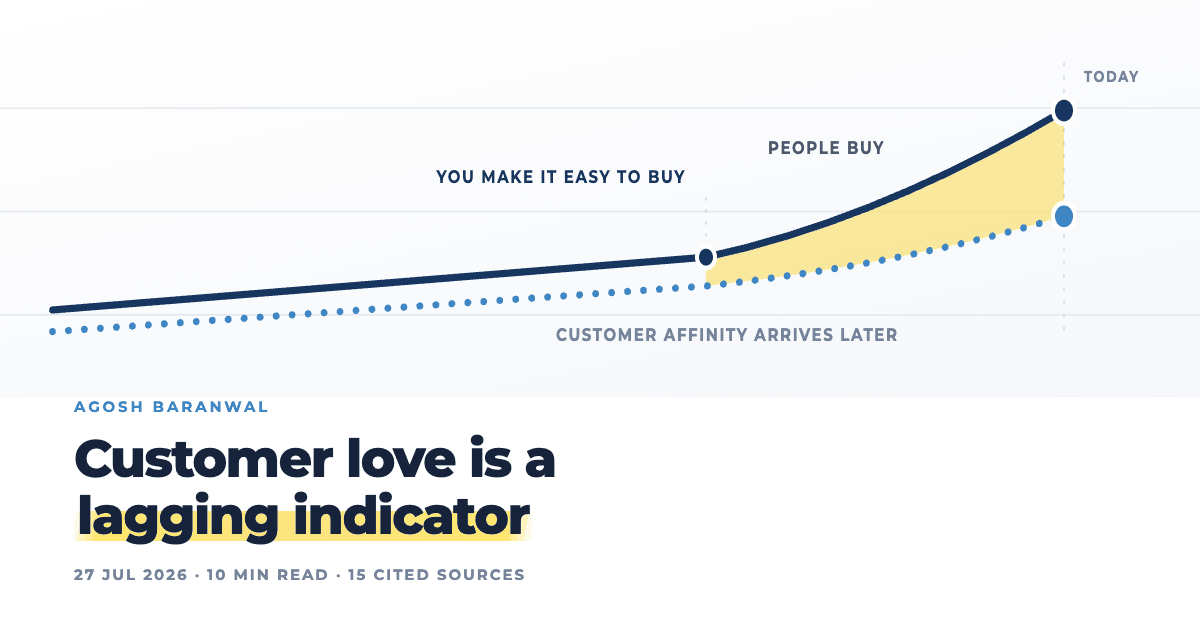
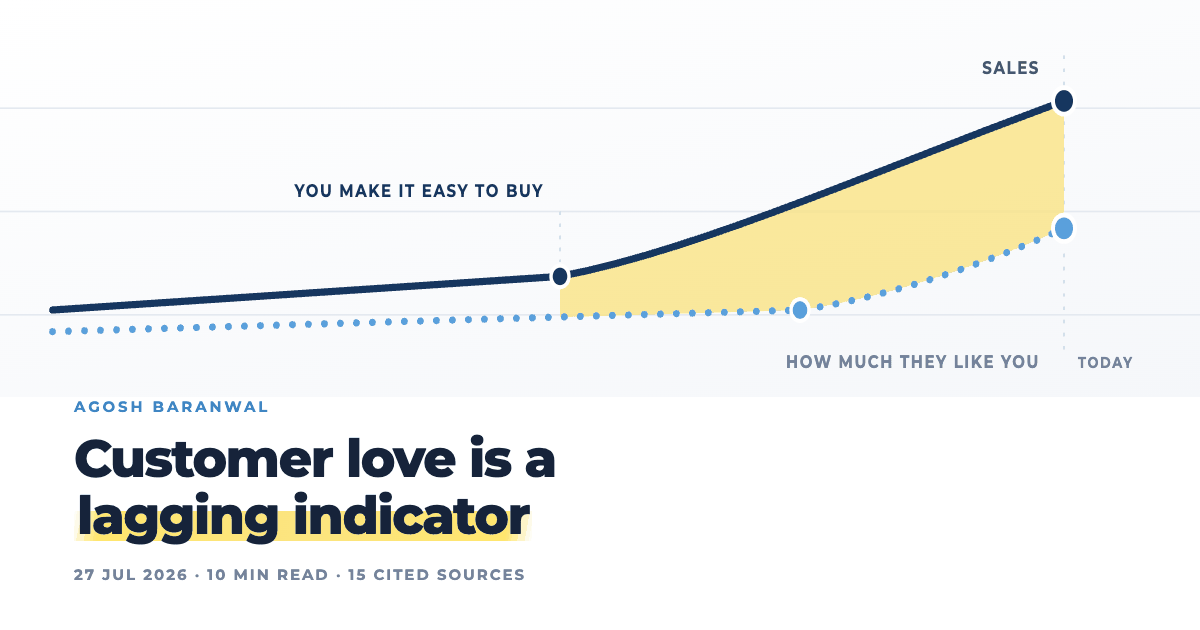
Redraw the essay cover so the lag is a delay, and put contact above the photographs
The graphic
It was not conveying the argument, and reading the essay again showed why. Both
lines turned upward at the same moment, so the picture said "these two move
together, one sits lower". That is a level gap. The essay is about a lag in TIME:
people buy for reasons of availability and habit, and only afterwards assemble
the attitude that makes their own behaviour look coherent. Attitude is a readout
of behaviour, not its cause.

So the dotted line now stays flat well past the moment the solid one turns up,
and only climbs near the end. The horizontal distance between those two turns is
the lag, and it is the whole point of the drawing.

The words carry it rather than decorate it. A tick marks the cause, "YOU MAKE IT
EASY TO BUY". The solid line is "SALES". The dotted one is "HOW MUCH THEY LIKE
YOU". "TODAY" marks the right edge. Every label is now the name of a thing on the
chart, where the old ones mixed a fragment ("PEOPLE BUY") with a conclusion
("CUSTOMER AFFINITY ARRIVES LATER") and named neither line.

Labels are anchored to the endpoints and the tick, because two earlier placements
put text straight through the curve: preserveAspectRatio="xMidYMid slice" crops
the viewBox, so coordinates that look clear in the source are not clear on screen.
og-customer-love.png is redrawn to match. The dark wedge went from a neutral grey
to warm yellow and came out olive over the navy, so it is a warm off-white now.

About
[…]

diff --git a/blog/index.html b/blog/index.html
@@ -57,19 +57,20 @@
 								<line x1="0" y1="215" x2="920" y2="215" />
 								<line x1="0" y1="110" x2="920" y2="110" />
 							</g>
-							<line x1="820" y1="66" x2="820" y2="330" stroke="var(--line-strong)" stroke-width="1.5" stroke-dasharray="3 7" />
-							<path d="M544 262 C 650 234 740 178 820 112 L820 218 C 745 248 655 272 544 290 Z" fill="var(--chart-gap)" />
-							<path d="M40 316 L 544 262 C 650 234 740 178 820 112" fill="none" stroke="var(--chart-lead)" stroke-width="5" stroke-linecap="round" />
-							<path d="M40 338 L 544 290 C 655 272 745 248 820 218" fill="none" stroke="var(--chart-lag)" stroke-width="5" stroke-linecap="round" stroke-dasharray="1 13" />
-							<line x1="544" y1="208" x2="544" y2="252" stroke="var(--line-strong)" stroke-width="1.5" stroke-dasharray="3 6" />
-							<circle cx="544" cy="262" r="7" fill="var(--chart-lead)" stroke="var(--card)" stroke-width="3" />
-							<circle cx="820" cy="112" r="9" fill="var(--chart-lead)" stroke="var(--card)" stroke-width="3.5" />
-							<circle cx="820" cy="218" r="9" fill="var(--chart-lag)" stroke="var(--card)" stroke-width="3.5" />
+							<line x1="820" y1="80" x2="820" y2="340" stroke="var(--line-strong)" stroke-width="1.5" stroke-dasharray="3 7" />
+							<path d="M470 288 C 570 262 700 170 820 108 L 820 236 C 760 272 700 302 640 316 L 470 323 Z" fill="var(--chart-gap)" />
+							<path d="M40 318 L 470 288 C 570 262 700 170 820 108" fill="none" stroke="var(--chart-lead)" stroke-width="5" stroke-linecap="round" />
+							<path d="M40 340 L 640 316 C 700 302 760 272 820 236" fill="none" stroke="var(--chart-lag)" stroke-width="5" stroke-linecap="round" stroke-dasharray="1 13" />
+							<line x1="470" y1="236" x2="470" y2="280" stroke="var(--line-strong)" stroke-width="1.5" stroke-dasharray="3 6" />
+							<circle cx="470" cy="288" r="7" fill="var(--chart-lead)" stroke="var(--card)" stroke-width="3" />
+							<circle cx="640" cy="316" r="7" fill="var(--chart-lag)" stroke="var(--card)" stroke-width="3" />
+							<circle cx="820" cy="108" r="9" fill="var(--chart-lead)" stroke="var(--card)" stroke-width="3.5" />
+							<circle cx="820" cy="236" r="9" fill="var(--chart-lag)" stroke="var(--card)" stroke-width="3.5" />
 							<g font-family="Montserrat, Helvetica, sans-serif" font-size="13" font-weight="700" letter-spacing="1.4">
-								<text x="528" y="198" fill="var(--chart-lead)" text-anchor="end">YOU MAKE IT EASY TO BUY</text>
-								<text x="588" y="152" fill="var(--ink-mid)">PEOPLE BUY</text>
-								<text x="452" y="334" fill="var(--ink-soft)">CUSTOMER AFFINITY ARRIVES LATER</text>
-								<text x="836" y="86" fill="var(--ink-soft)" font-size="11">TODAY</text>
+								<text x="456" y="226" fill="var(--chart-lead)" text-anchor="end">YOU MAKE IT EASY TO BUY</text>
+								<text x="798" y="96" fill="var(--ink-mid)" text-anchor="end">SALES</text>
+								<text x="798" y="352" fill="var(--ink-soft)" text-anchor="end">HOW MUCH THEY LIKE YOU</text>
+								<text x="830" y="352" fill="var(--ink-soft)" font-size="11">TODAY</text>
 							</g>
 						</svg>
 					</span>

diff --git a/site.css b/site.css
@@ -52,7 +52,7 @@
     --sky:#6FB0E0;
     --sky-wash:rgba(111,176,224,.09);
     --hi:linear-gradient(100deg, rgba(214,178,44,0) 0%, rgba(214,178,44,.34) 6%, rgba(214,178,44,.27) 50%, rgba(214,178,44,.34) 94%, rgba(214,178,44,0) 100%);
-    --chart-lead:#F2F6FC; --chart-lag:#5F9FD8; --chart-gap:rgba(255,241,198,.13);
+    --chart-lead:#F2F6FC; --chart-lag:#5F9FD8; --chart-gap:rgba(255,240,190,.15);
     --slot:#1B2942;
     --slot-2:#20304C;
     --shadow:0 1px 2px rgba(0,0,0,.35), 0 8px 26px rgba(0,0,0,.32);
@@ -75,7 +75,7 @@
   --sky:#6FB0E0;
   --sky-wash:rgba(111,176,224,.09);
   --hi:linear-gradient(100deg, rgba(214,178,44,0) 0%, rgba(214,178,44,.34) 6%, rgba(214,178,44,.27) 50%, rgba(214,178,44,.34) 94%, rgba(214,178,44,0) 100%);
-  --chart-lead:#F2F6FC; --chart-lag:#5F9FD8; --chart-gap:rgba(255,241,198,.13);
+  --chart-lead:#F2F6FC; --chart-lag:#5F9FD8; --chart-gap:rgba(255,240,190,.15);
   --slot:#1B2942;
   --slot-2:#20304C;
   --shadow:0 1px 2px rgba(0,0,0,.35), 0 8px 26px rgba(0,0,0,.32);
@@ -279,7 +279,7 @@ html.js .rv.in{opacity:1;transform:none}
 .feature .meta{font-size:11px;font-weight:600;letter-spacing:.11em;text-transform:uppercase;color:var(--ink-soft);display:flex;gap:18px;flex-wrap:wrap}
 
 /* ---------- ABOUT ME page ---------- */
-.gallery{display:grid;grid-template-columns:repeat(3,minmax(0,1fr));gap:clamp(26px,3.6vw,46px);margin-top:clamp(30px,4vw,48px)}
+.gallery{display:grid;grid-template-columns:repeat(3,minmax(0,1fr));gap:clamp(26px,3.6vw,46px);margin:clamp(30px,3.6vw,44px) 0 clamp(40px,5vw,66px)}
 .gal{display:grid;gap:8px}
 .gal{margin:0}
 .gal .print{width:100%}
@@ -294,7 +294,7 @@ html.js .rv.in{opacity:1;transform:none}
 /* the captions arrive with the photographs, one place and year each */
 .gal .cap{font-size:11px;font-weight:600;letter-spacing:.1em;text-transform:uppercase;color:var(--ink-soft);text-align:center}
 @media (max-width:640px){.gallery{grid-template-columns:repeat(2,minmax(0,1fr))}}
-.about-contact{margin-top:clamp(28px,3.4vw,44px);border-top:1px solid var(--line);padding-block:clamp(32px,3.8vw,50px) clamp(34px,4.2vw,56px);text-align:center}
+.about-contact{margin-top:clamp(22px,2.6vw,32px);padding-block:clamp(26px,3vw,38px) clamp(30px,3.6vw,46px);text-align:center;border-bottom:1px solid var(--line)}
 .about-contact h2{font-size:clamp(21px,2.6vw,28px);font-weight:800;letter-spacing:-.02em;margin:0 0 12px}
 .about-contact p.say{font-size:15px;font-weight:500;margin:0 auto 24px;color:var(--ink-mid);max-width:46ch}
 .about-contact .mail{font-size:clamp(16px,2vw,19px);font-weight:700;margin:0 0 6px}

diff --git a/about.html b/about.html
@@ -46,35 +46,9 @@
 			<div class="wrap">
 				<div class="page-h">
 					<h1>About me</h1>
-					<p class="lead">Photographs from outside work, and how to reach me</p>
+					<p class="lead">How to reach me, and photographs from outside work</p>
 				</div>
 
-				<p class="notice">
-					<span class="dot" aria-hidden="true"></span>
-					<b>The photographs are not up yet</b>
-					<span>Six of them are on their way, and the contact details below are live</span>
-				</p>
-
-				<div class="gallery">
-					<figure class="gal">
-						<span class="print" aria-hidden="true"></span>
-					</figure>
-					<figure class="gal">
-						<span class="print" aria-hidden="true"></span>
-					</figure>
-					<figure class="gal">
-						<span class="print" aria-hidden="true"></span>
-					</figure>
-					<figure class="gal">
-						<span class="print" aria-hidden="true"></span>
-					</figure>
-					<figure class="gal">
-						<span class="print" aria-hidden="true"></span>
-					</figure>
-					<figure class="gal">
-						<span class="print" aria-hidden="true"></span>
-					</figure>
-				</div>
 
 				<div class="about-contact">
 					<h2>Write to me</h2>
@@ -101,6 +75,31 @@
 						<span class="arrow" aria-hidden="true">&rarr;</span>
 					</a>
 				</div>
+				<p class="notice">
+					<span class="dot" aria-hidden="true"></span>
+					<b>The photographs are not up yet</b>
+				</p>
+				<div class="gallery">
+					<figure class="gal">
+						<span class="print" aria-hidden="true"></span>
+					</figure>
+					<figure class="gal">
+						<span class="print" aria-hidden="true"></span>
+					</figure>
+					<figure class="gal">
+						<span class="print" aria-hidden="true"></span>
+					</figure>
+					<figure class="gal">
+						<span class="print" aria-hidden="true"></span>
+					</figure>
+					<figure class="gal">
+						<span class="print" aria-hidden="true"></span>
+					</figure>
+					<figure class="gal">
+						<span class="print" aria-hidden="true"></span>
+					</figure>
+				</div>
+
 				</div>
 			</div>
 		</main>
